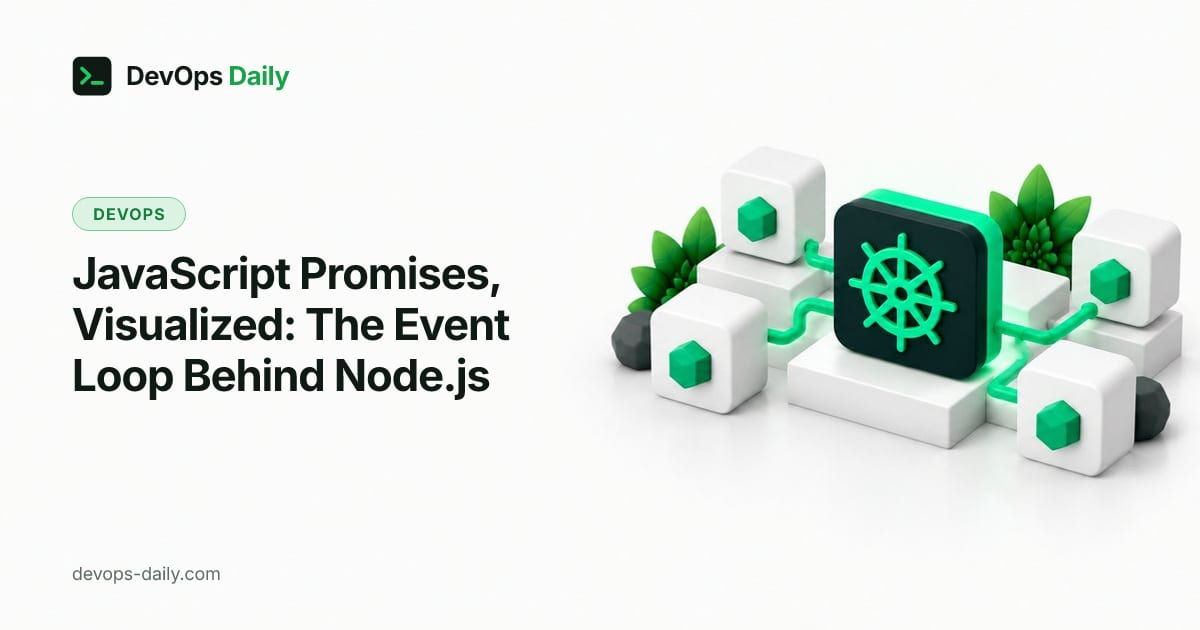
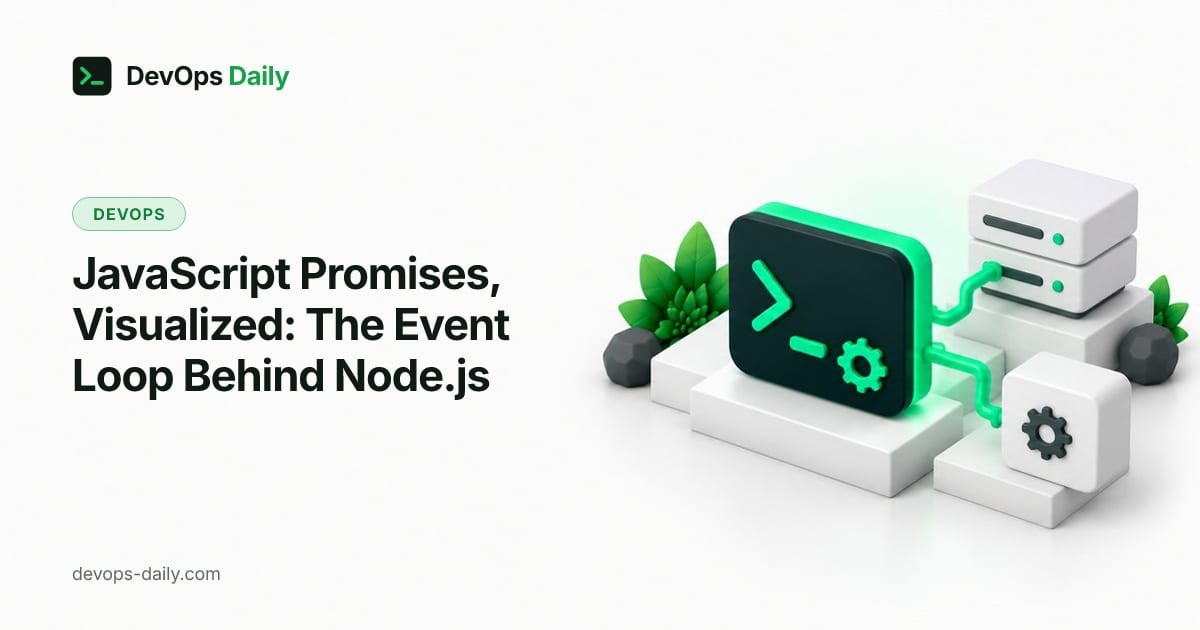
Promises post: general cover instead of the Kubernetes one

Changed region(s): [[0.4933, 0.2714, 1.0, 0.8444]]

diff --git a/content/posts/javascript-promises-event-loop-visualized.md b/content/posts/javascript-promises-event-loop-visualized.md
@@ -16,7 +16,7 @@ tags:
   - JavaScript
   - Node.js
   - Event Loop
-  - Kubernetes
+  - Health Checks
   - Performance
   - Observability
 ---
